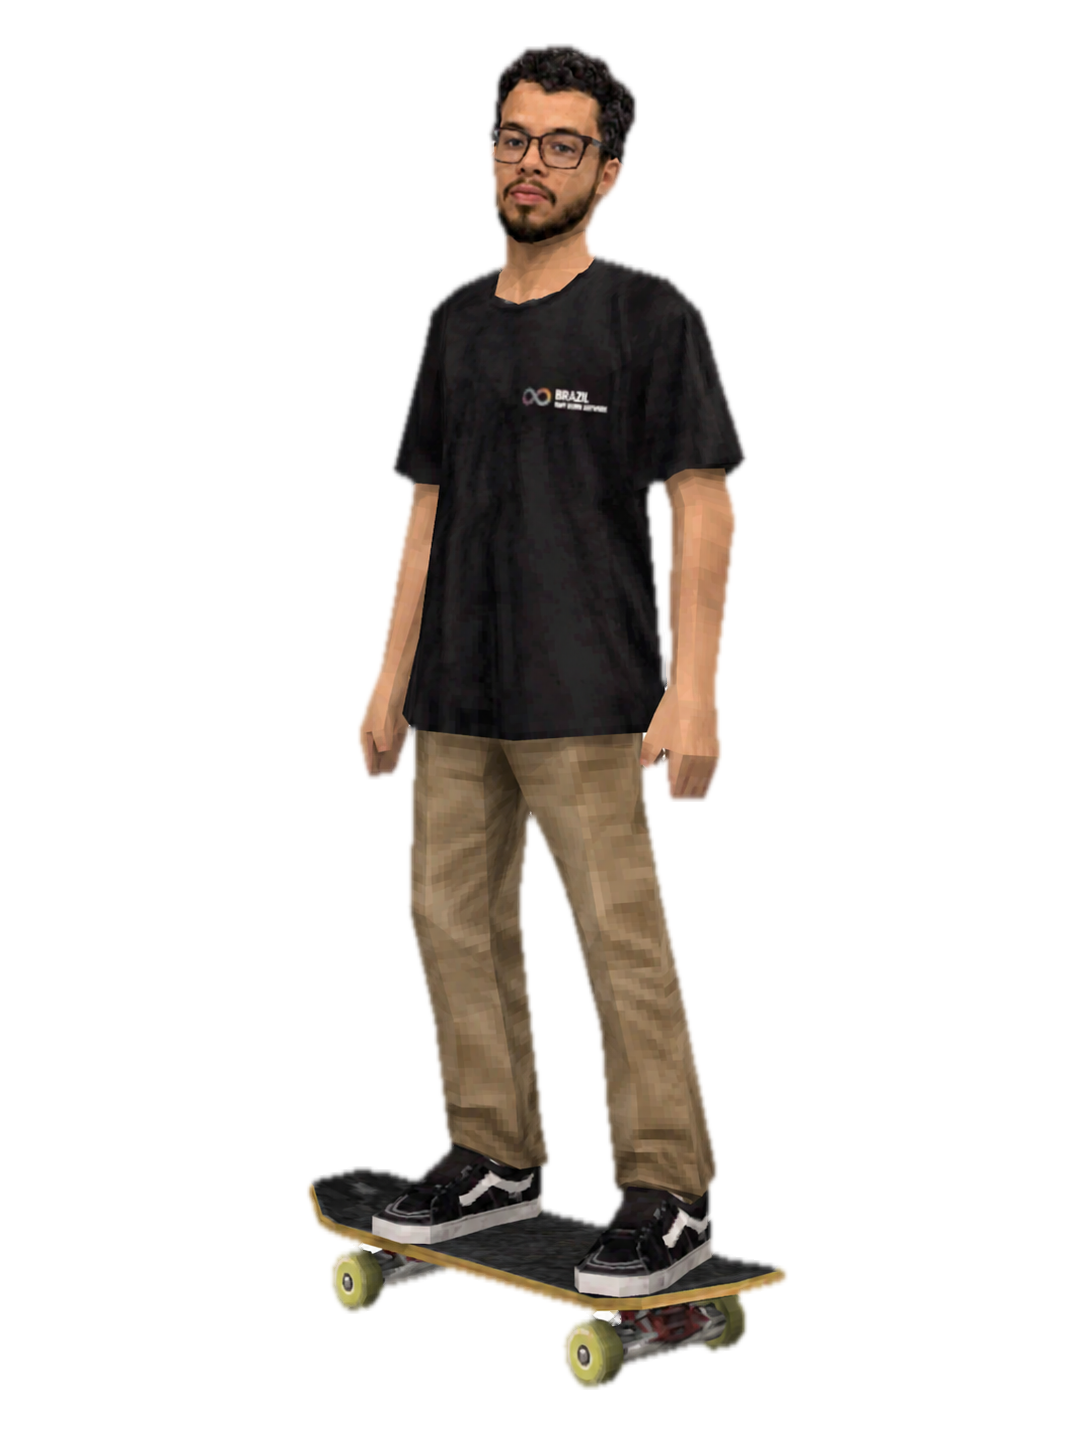
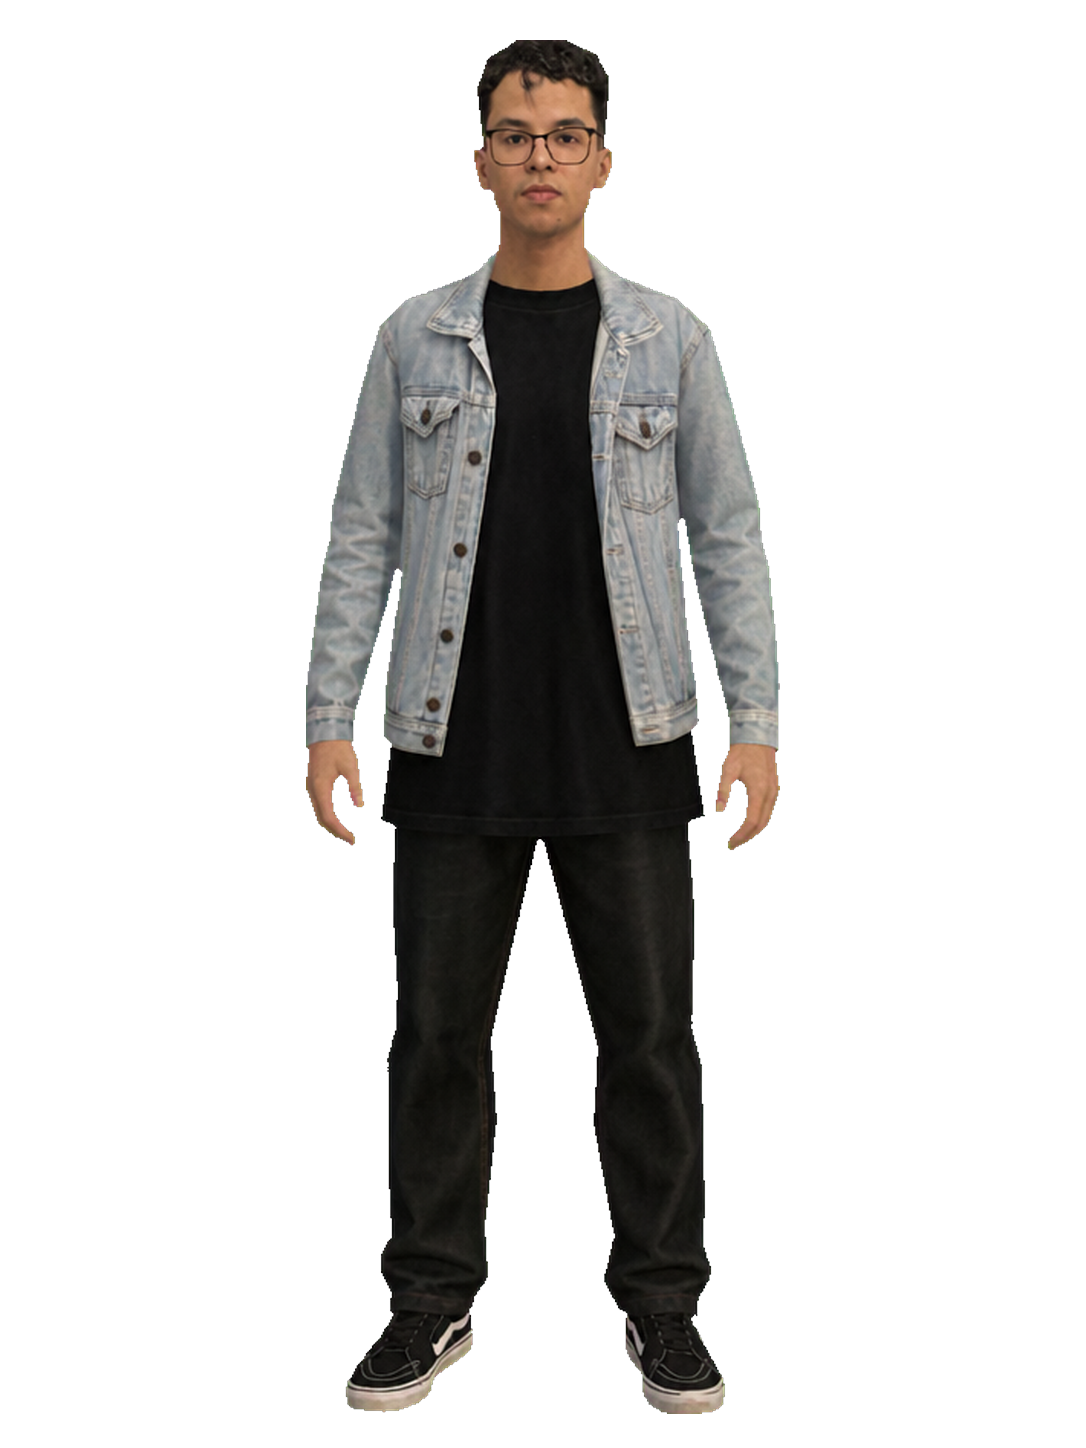
update(stake): novos retratos de Vlad, r4to e V2 (#288)
Substitui os cut-outs dos tres riders pelas renderizacoes novas
(out-cortes-r46). Os arquivos de origem vinham em canvas quadrado com
o corpo centrado; foram normalizados para o mesmo contrato dos demais
cut-outs — canvas 1086x1448, conteudo centrado, altura ~95% com margem
de topo ~2.8% — para nao quebrar o crop de rosto calibrado nos tiles.

Nos modelos novos a cabeca e proporcionalmente menor no corpo, entao o
zoom de 420% deixava o retrato afastado demais em relacao aos outros
riders. Recalibrado para 480% / "50% 5.5%" nos tres consumidores de
`face`/`AVATAR`. O `ratio` do r4to no StakeOrbit passa de 1024/688 para
1448/1086, acompanhando o novo canvas.

Changed region(s): [[0.2735, 0.0, 0.7293, 0.9945]]

diff --git a/src/components/stake/CharacterSelector.tsx b/src/components/stake/CharacterSelector.tsx
@@ -89,7 +89,7 @@ export const CHARACTERS: Character[] = [
     accentTo: "to-amber-600",
     ring: "ring-yellow-400",
     hex: "#f59e0b",
-    face: { size: "420%", pos: "50% 6%" },
+    face: { size: "480%", pos: "50% 5.5%" },
     video:
       "https://ipfs.skatehive.app/ipfs/bafybeiapkdzwrh3tv2dhaxkefzcwtoxekjaryecapa7kpqcaifqgwux3c4",
     stats: { speed: 7, air: 5, ollie: 8, spin: 9, rail: 2, flow: 9, devSkills: 10, creativity: 9 },
@@ -111,7 +111,7 @@ export const CHARACTERS: Character[] = [
     accentTo: "to-purple-600",
     ring: "ring-fuchsia-400",
     hex: "#d946ef",
-    face: { size: "420%", pos: "50% 5%" },
+    face: { size: "480%", pos: "50% 5.5%" },
     // Same render as the still, so the hover swap lands on the same silhouette:
     // the rider fills 93.8% of the video's height against 93.9% of the still's.
     video: "/stake/video/r4to.webm",
@@ -137,7 +137,7 @@ export const CHARACTERS: Character[] = [
     accentTo: "to-red-600",
     ring: "ring-rose-400",
     hex: "#f43f5e",
-    face: { size: "420%", pos: "50% 8%" },
+    face: { size: "480%", pos: "50% 5.5%" },
     stats: { speed: 10, air: 7, ollie: 7, spin: 8, rail: 5, flow: 9, devSkills: 7, creativity: 9 },
   },
   {

diff --git a/src/components/treasury/SponsorshipYield.tsx b/src/components/treasury/SponsorshipYield.tsx
@@ -53,11 +53,11 @@ import { FiatFallbackNote } from "./FiatFallbackNote";
  * gaining a new cut-out needs it in both.
  */
 export const AVATAR: Record<RiderId, { src: string; size: string; pos: string }> = {
-  vlad: { src: "/stake/cutout/vlad.png", size: "420%", pos: "50% 6%" },
+  vlad: { src: "/stake/cutout/vlad.png", size: "480%", pos: "50% 5.5%" },
   yan: { src: "/stake/cutout/yan.png", size: "420%", pos: "50% 5%" },
-  r4to: { src: "/stake/cutout/r4to.png", size: "420%", pos: "50% 5%" },
+  r4to: { src: "/stake/cutout/r4to.png", size: "480%", pos: "50% 5.5%" },
   pamtech: { src: "/stake/cutout/pamtech.png", size: "420%", pos: "50% 9%" },
-  v2: { src: "/stake/cutout/v2.png", size: "420%", pos: "50% 8%" },
+  v2: { src: "/stake/cutout/v2.png", size: "480%", pos: "50% 5.5%" },
   zima: { src: "/stake/cutout/zima.png", size: "330%", pos: "50% 3%" },
   will: { src: "/stake/cutout/will.png", size: "400%", pos: "50% 8%" },
   ephraim: { src: "/stake/cutout/ephraim.png", size: "400%", pos: "50% 8%" },

diff --git a/src/components/stake/StakeOrbit.tsx b/src/components/stake/StakeOrbit.tsx
@@ -49,7 +49,7 @@ const RIDER_VISUAL: Record<
   vlad: {
     hex: "#f59e0b",
     image: "/stake/cutout/vlad.png",
-    face: { size: "420%", pos: "50% 6%" },
+    face: { size: "480%", pos: "50% 5.5%" },
     ratio: 1448 / 1086,
   },
   yan: {
@@ -61,8 +61,8 @@ const RIDER_VISUAL: Record<
   r4to: {
     hex: "#d946ef",
     image: "/stake/cutout/r4to.png",
-    face: { size: "420%", pos: "50% 5%" },
-    ratio: 1024 / 688,
+    face: { size: "480%", pos: "50% 5.5%" },
+    ratio: 1448 / 1086,
     clip: { src: "/stake/video/r4to.webm" },
   },
   pamtech: {
@@ -74,7 +74,7 @@ const RIDER_VISUAL: Record<
   v2: {
     hex: "#f43f5e",
     image: "/stake/cutout/v2.png",
-    face: { size: "420%", pos: "50% 8%" },
+    face: { size: "480%", pos: "50% 5.5%" },
     ratio: 1448 / 1086,
   },
   zima: {
